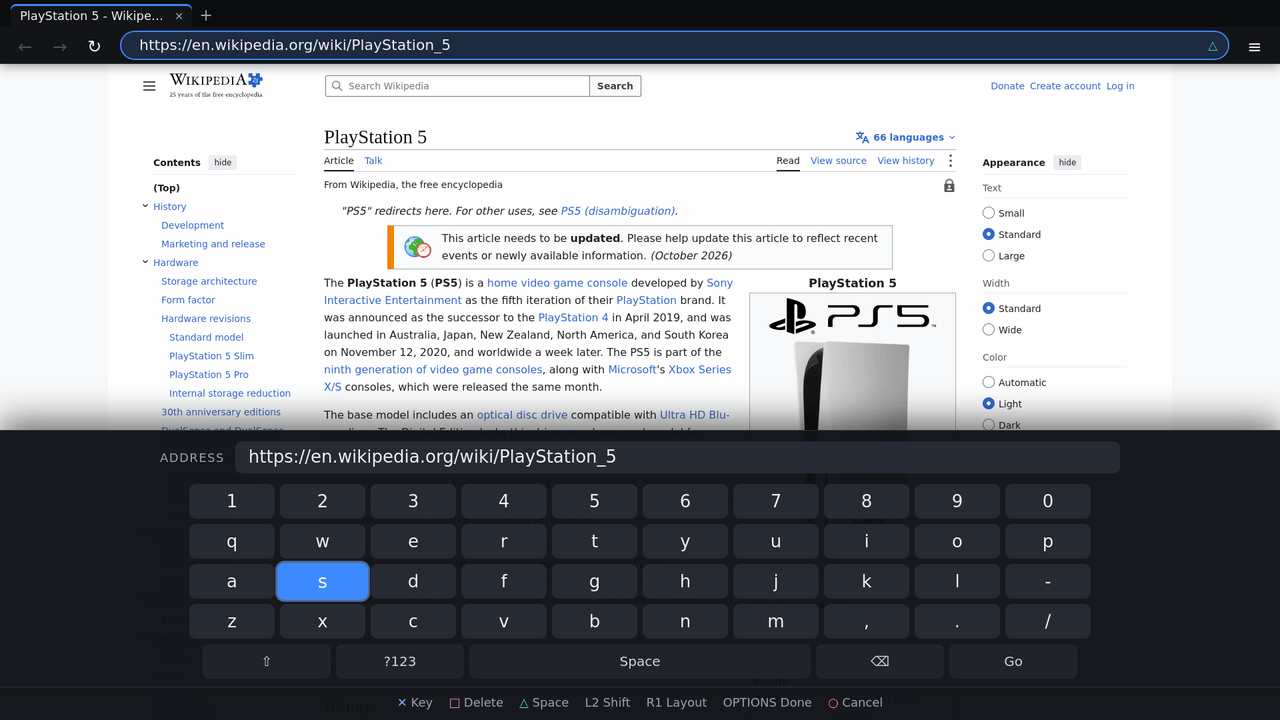
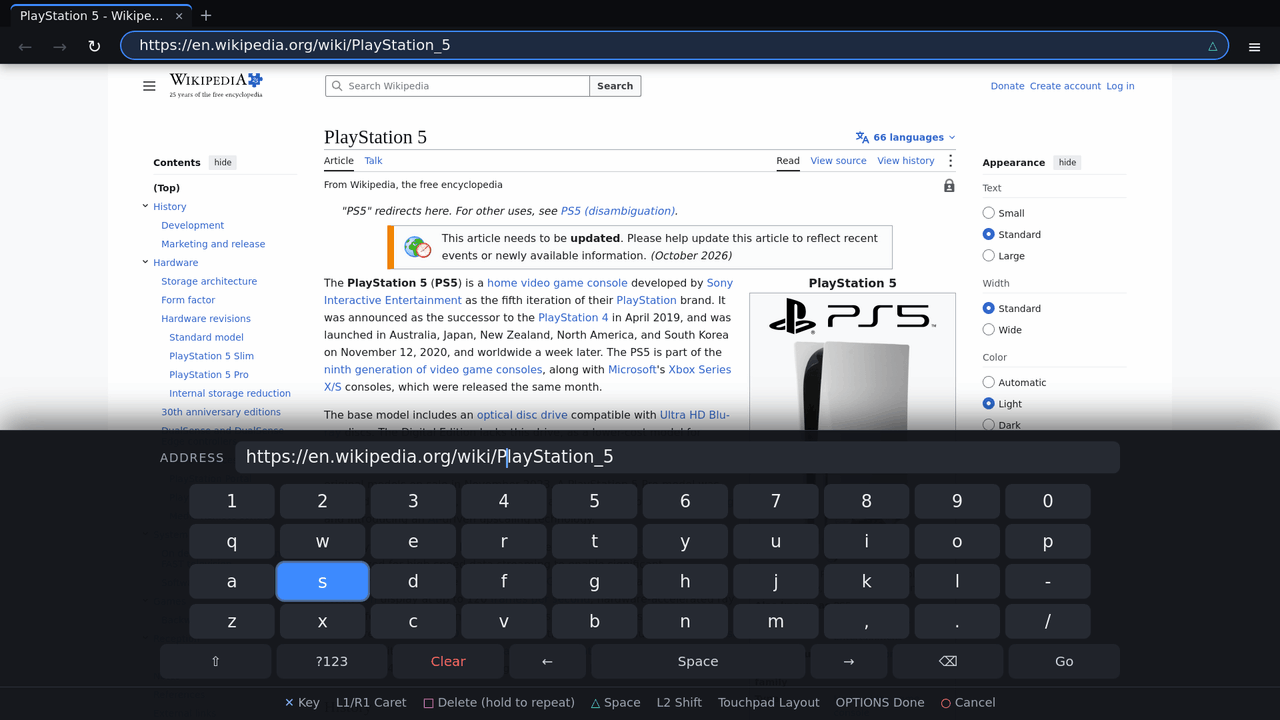
docs(screenshots): show the OSK caret moved into the URL
Assisted-by: LLM

diff --git a/docs/screenshots/README.md b/docs/screenshots/README.md
@@ -28,7 +28,7 @@ W=https://en.wikipedia.org/wiki/PlayStation_5
 | --- | --- | --- |
 | `host-demo-chrome.png` | `shot host-demo-chrome 3000 --demo` | `chrome.html?demo=1` over `about:blank`: three tabs (one loading), address bar, nav indicators, gamepad pointer ring. Static demo state, no shell state involved. |
 | `host-page-wikipedia.png` | `shot host-page-wikipedia 8000 --url $W` | A real page loaded through the shell with the chrome band on top; the page view starts below the 96 px band. |
-| `host-osk.png` | `shot host-osk 7000 --url $W --input triangle,down,down,right --input-delay-ms 5000` | Triangle opens the on-screen keyboard on the address bar with the current URL; D-pad moved the key focus to `s`. |
+| `host-osk.png` | `shot host-osk 7000 --url $W --input triangle,l1,l1,l1,l1,l1,l1,l1,l1,l1,l1,l1,l1,down,down,right --input-delay-ms 5000 --input-step-ms 100` | Triangle opens the on-screen keyboard on the address bar with the current URL and the caret at its end; twelve L1 presses move the caret back to just after the `P` of `PlayStation_5` (typing and Square now act there), and the D-pad moved the key focus to `s`. The bottom row has the Clear and caret arrow keys; the hint bar lists the L1/R1 caret and Touchpad layout bindings. |
 | `host-osk-page-field.png` | `shot host-osk-page-field 5000 --url "$P/form.html" --input square,down,right,right,right,cross,triangle,cross,options --input-delay-ms 2500 --input-step-ms 150` | Square opens the OSK for the focused page field; `r`, space, `r` typed, Options commits; the text lands in the page via `insert_text` and fires one `input` event. |
 | `host-drm-notice.png` | `shot host-drm-notice 5000 --url https://www.netflix.com/` | Navigating to a known Widevine-only host shows the DRM notice before the load; Cross proceeds, Circle cancels. The home page (DuckDuckGo) stays behind it. |
 | `host-menu-bookmarks.png` | `shot host-menu-bookmarks 8000 --url $W --input options,down,down,cross,options,cross --input-delay-ms 5000` | Options menu: "Add bookmark" on the loaded page, then the Bookmarks section listing it. |
